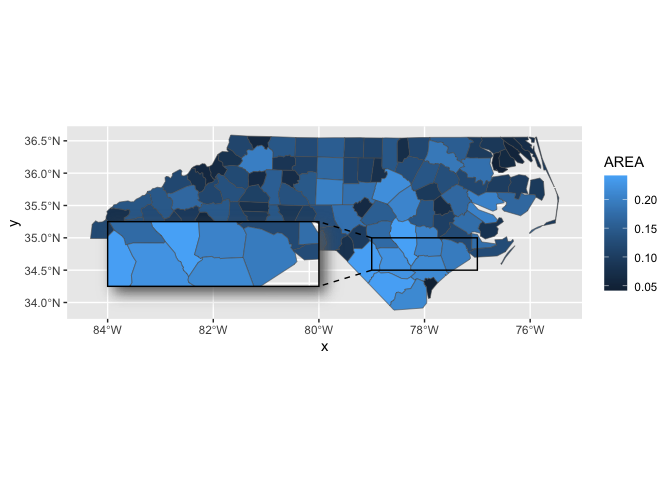
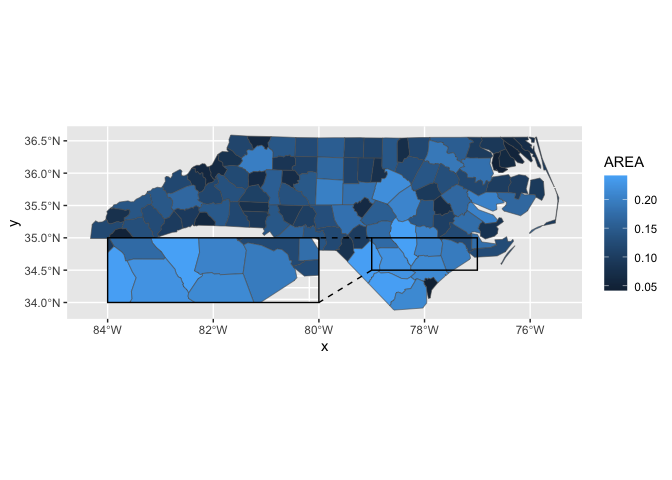
Rewrite:  - drop compose  - store original plot in object  - use + to add to both plot and inset  - print by evaluation at the command line  - split into different files

Changed region(s): [[0.1562, 0.4375, 0.5625, 0.6562]]

diff --git a/README.md b/README.md
@@ -107,22 +107,26 @@ ggmagnify(ggp_noclip,
 I mean, it’s all experimental, but maps are *really* experimental.
 
 ``` r
+# Using maps
+#
+if (requireNamespace("sf", quietly = TRUE)) {
+  nc <- sf::st_read(system.file("shape/nc.shp", package = "sf"), quiet = TRUE)
 
-library(sf)
-#> Linking to GEOS 3.11.0, GDAL 3.5.3, PROJ 9.1.0; sf_use_s2() is TRUE
+  ggp <- ggplot(nc) +
+    geom_sf(aes(fill = AREA)) +
+    coord_sf(default_crs = sf::st_crs(4326))
 
-nc <- sf::st_read(system.file("shape/nc.shp", package = "sf"), quiet = TRUE)
-ggp <- ggplot(nc) + geom_sf(aes(fill = AREA)) +
-       coord_sf(default_crs = sf::st_crs(4326))
+  xlim <- c(-79, -77)
+  ylim <- c(34.5, 35)
 
-xlim <- c(-79, -77)
-ylim <- c(34.5, 35)
+  # Specify xlim and ylim, but also manually specify the coordinate
+  # system for the inset:
+  ggmagnify(ggp, xlim = xlim, ylim = ylim,
+            inset_xlim = c(-84, -80), inset_ylim = c(34, 35),
+            inset_coord = coord_sf(default_crs = sf::st_crs(4326),
+                                    xlim = xlim, ylim = ylim))
 
-ggmagnify(ggp, xlim = xlim, ylim = ylim,
-          inset_xlim = c(-84, -80), inset_ylim = c(34.25, 35.25),
-          inset_coord = coord_sf(default_crs = sf::st_crs(4326),
-                                  xlim = xlim, ylim = ylim), 
-          shadow = TRUE)
+}
 ```
 
 <img src="man/figures/README-example-map-1.png" width="100%" />
@@ -149,15 +153,14 @@ ggm <- ggmagnify(booms,
                  xlim = c(80, 92), ylim = c(4, 4.8),
                  inset_xlim = c(70, 94), inset_ylim = c(1.7, 3.3),
                  shadow = TRUE, shadow_args = shadow_args,
-                 compose = FALSE, colour = "white")
+                 colour = "white")
 
 # modify the inset like a ggplot object:
 ggm$inset <- ggm$inset +
-             geom_point(data = faithful, color = "red", fill = "white", alpha = 0.7,
-                        size = 2, shape = "circle filled")
+             geom_point(data = faithful, color = "red", fill = "white",
+                        alpha = 0.7, size = 2, shape = "circle filled")
 
-
-compose(ggm, booms)
+ggm
 ```
 
 <img src="man/figures/README-example-advanced-1.png" width="100%" />
